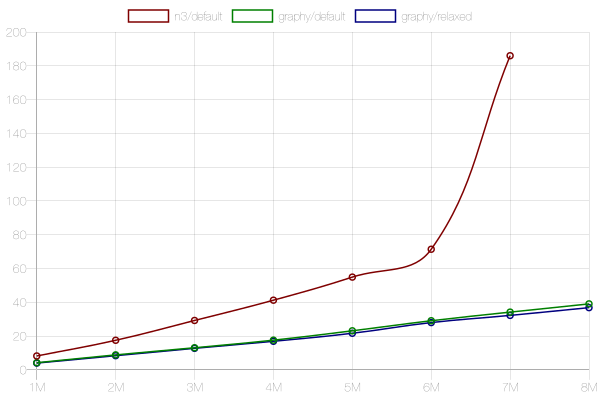
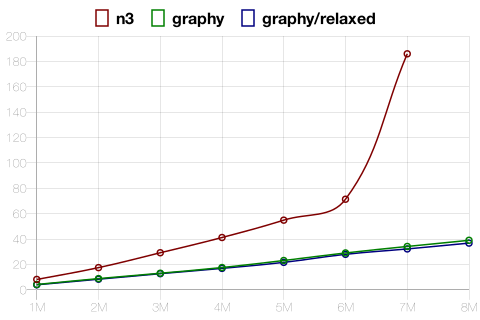
chart style update

diff --git a/perf/compare.js b/perf/compare.js
@@ -79,10 +79,23 @@ const gobble = (s_text, s_indent='') => {
 async function render(si_chart, g_opt={}) {
 	let x_width = 600;
 	let x_height = 400;
-	const configuration = {
+
+	let xs_scale = 0.8;
+	x_width = Math.round(x_width * xs_scale);
+	x_height = Math.round(x_height * xs_scale);
+
+	const gc_chart = {
 		type: 'line',
 		...g_opt,
 		options: {
+			legend: {
+				labels: {
+					fontColor: 'black',
+					fontSize: 16,
+					fontStyle: 'bold',
+					boxWidth: 12,
+				},
+			},
 			scales: {
 				yAxes: [{
 					ticks: {
@@ -95,9 +108,17 @@ async function render(si_chart, g_opt={}) {
 
 	let pr_img = `chart/${si_chart}.png`;
 
-	const y_service = new CanvasRenderService(x_width, x_height, () => {});
+	const y_service = new CanvasRenderService(x_width, x_height, (ChartJS) => {
+		ChartJS.plugins.register({
+			beforeDraw(y_chart) {
+				let y_ctx = y_chart.ctx;
+				y_ctx.fillStyle = '#ffffff';
+				y_ctx.fillRect(0, 0, x_width, x_height);
+			},
+		});
+	});
 
-	let ds_test = y_service.renderToStream(configuration)
+	let ds_test = y_service.renderToStream(gc_chart)
 		.pipe(fs.createWriteStream(`./${pr_img}`));
 
 	await once(ds_test, 'finish');
@@ -161,7 +182,7 @@ async function* r() {
 						let si_test = `${g_test.party}/${g_test.mode}`;
 						(g_groups[si_test] = g_groups[si_test] || {
 							data: [],
-							label: si_test,
+							label: si_test.replace(/\/default$/, '')+'  ',
 							backgroundColor: 'rgba(0, 0, 0, 0)',
 							borderColor: H_COLORS[si_test],
 							borderWidth: 1.5,
